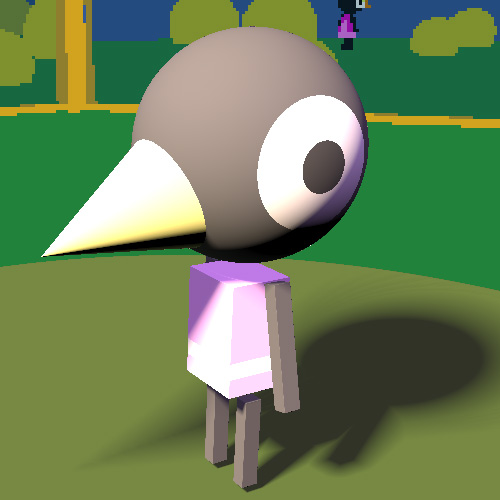
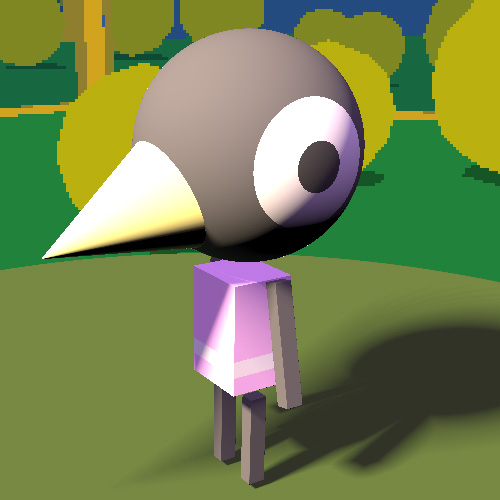
Fix incorrect rasterizer state on mirror scene, as well as openGL log debug callback. Updated screenshots for the SDF readme to reflect most recent look

diff --git a/c++_2024-/src/TestSDF/scene.h b/c++_2024-/src/TestSDF/scene.h
@@ -1095,7 +1095,6 @@ void renderBaseScene(RenderSceneContext& sceneCtx) {
     renderSDFScene(sceneCtx.camera, rsc, sceneCtx.ds_opaque);
 
     // Shadows + opaque after shadows passes (they use the same entities, for now)
-    gfx::rhi::bind_RS(sceneCtx.rs);
     {
         allocator::PagedArena scratchArena = sceneCtx.scratchArena;
         Drawlist dl = {};
@@ -1169,6 +1168,7 @@ void renderBaseScene(RenderSceneContext& sceneCtx) {
             gfx::rhi::end_event();
 
             gfx::rhi::start_event("OPAQUE AFTER SHADOWS");
+            gfx::rhi::bind_RS(sceneCtx.rs);
             gfx::rhi::bind_DS(sceneCtx.ds_opaque, sceneCtx.camera.depth);
             Drawlist_Context ctx = {};
             Drawlist_Overrides overrides = {};
@@ -1412,7 +1412,7 @@ void load_coreResources(
 
         // in-game RT (less resolution than actual window)
         gfx::rhi::RenderTargetParams gameRTparams;
-        gameRTparams.flags = (gfx::rhi::RenderTargetParams::Flags::EnableDepth);// | gfx::rhi::RenderTargetParams::Flags::ReadDepth;
+        gameRTparams.flags = gfx::rhi::RenderTargetParams::Flags::EnableDepth;// | gfx::rhi::RenderTargetParams::Flags::ReadDepth;
         gameRTparams.width = screen.width;
         gameRTparams.height = screen.height;
         gameRTparams.textureFormat = gfx::rhi::TextureFormat::B8G8R8A8_UNORM;

diff --git a/c++_2024-/src/TestSDF/game.h b/c++_2024-/src/TestSDF/game.h
@@ -1266,10 +1266,12 @@ void update(Instance& game, platform::GameConfig& config) {
                 }
 
                 gfx::rhi::bind_blend_state(game.resources.renderCore.blendStateBlendOff);
+                //gfx::rhi::bind_DS(game.resources.renderCore.depthStateAlways);
                 gfx::rhi::bind_DS(game.resources.renderCore.depthStateOff);
                 gfx::rhi::bind_RS(game.resources.renderCore.rasterizerStateFillFrontfaces);
                 gfx::rhi::bind_main_RT(game.resources.renderCore.windowRT);
 
+                //gfx::rhi::bind_shader(game.resources.renderCore.shaderPrograms[renderer::ShaderPrograms::FullscreenBlitTexturedDepth].shader);
                 gfx::rhi::bind_shader(game.resources.renderCore.shaderPrograms[renderer::ShaderPrograms::FullscreenBlitTextured].shader);
                 gfx::rhi::RscTexture textures[] = {
                     game.resources.renderCore.gameRT.textures[0],

diff --git a/c++_2024-/src/TestSDF/helpers/main_win.h b/c++_2024-/src/TestSDF/helpers/main_win.h
@@ -136,6 +136,7 @@ PFNWGLGETPIXELFORMATARBPROC wglChoosePixelFormatARB;
 #define WGL_FULL_ACCELERATION_ARB 0x2027
 #define WGL_TYPE_RGBA_ARB 0x202B
 
+LogData logLevel = {};
 HDC dc;
 bool createRenderContext(HWND hWnd) {
 
@@ -208,7 +209,6 @@ bool createRenderContext(HWND hWnd) {
 
 #if __GPU_DEBUG
     if (glDebugMessageCallback) {//GLAD_GL_KHR_debug) {
-        LogData logLevel = {};
         logLevel.minLevel = LogLevel::Debug;
         glEnable(GL_DEBUG_OUTPUT);
         glDebugMessageCallback(debugMessageCallback, &logLevel);

diff --git a/c++_2024-/src/TestSDF/README.md b/c++_2024-/src/TestSDF/README.md
@@ -53,3 +53,7 @@ The SDF scene could handle its own reflections, but it wouldn't have a way to bl
 This test also uses a new zero-memory immediate mode UI, based on Casey Muratori's and Sean Barrett's work. Feel free to look at `im::WindowContext` and related code inside `helpers/immediate_mode.h`.
 
 ![](breakdown_2.gif)
+
+One last thing: there's some simple drop shadows under each moving entity. They are simple shadow volumes (spheres places at a raycasted position along the light direction, used as a mask on the depth buffer), very similar to [some of the ones described in the Shadow Test](../TestShadows/README.md).
+
+![](breakdown_3.jpg)
